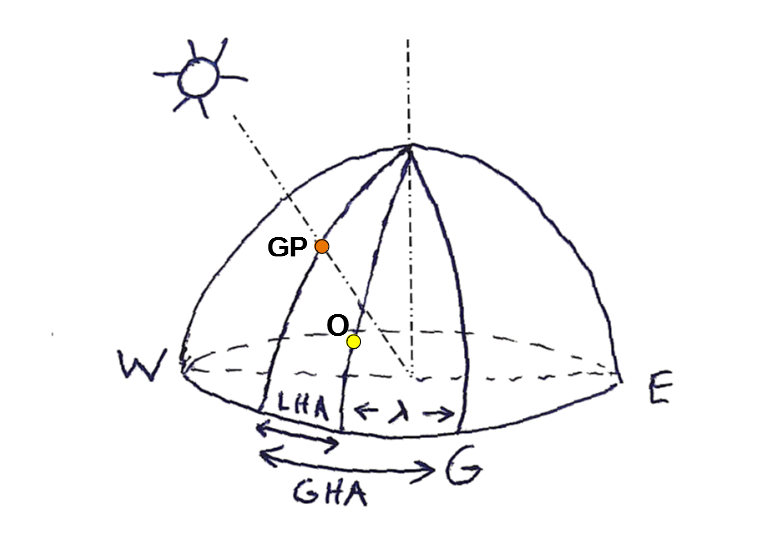
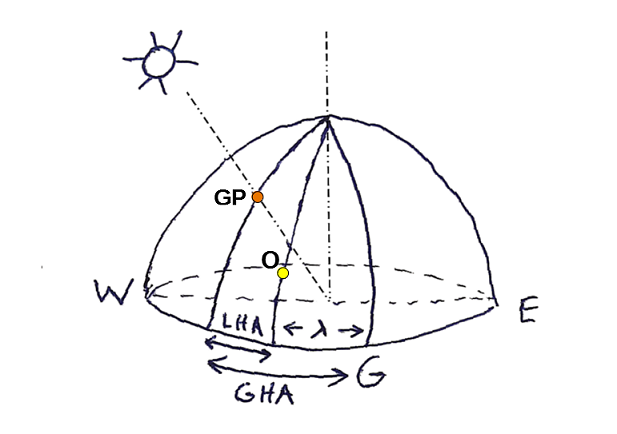
cm

diff --git a/_posts/2026-01-10-geo-ubicación.md b/_posts/2026-01-10-geo-ubicación.md
@@ -107,7 +107,7 @@ Veremos en el siguiente apartado que esta estimación es mejorable si hacemos do
 
 <div align="center">
    <a id="f3"></a>
-	{% include  image.html url="/img/geoloc/longitud.png" description="Figura 1. Esquema para la estimación de la longitud del observador, O." %}
+	{% include  image.html url="/img/geoloc/longitud2.png" description="Figura 1. Esquema para la estimación de la longitud del observador, O." %}
 </div>
   
 <!-- <a id="f3"></a>
